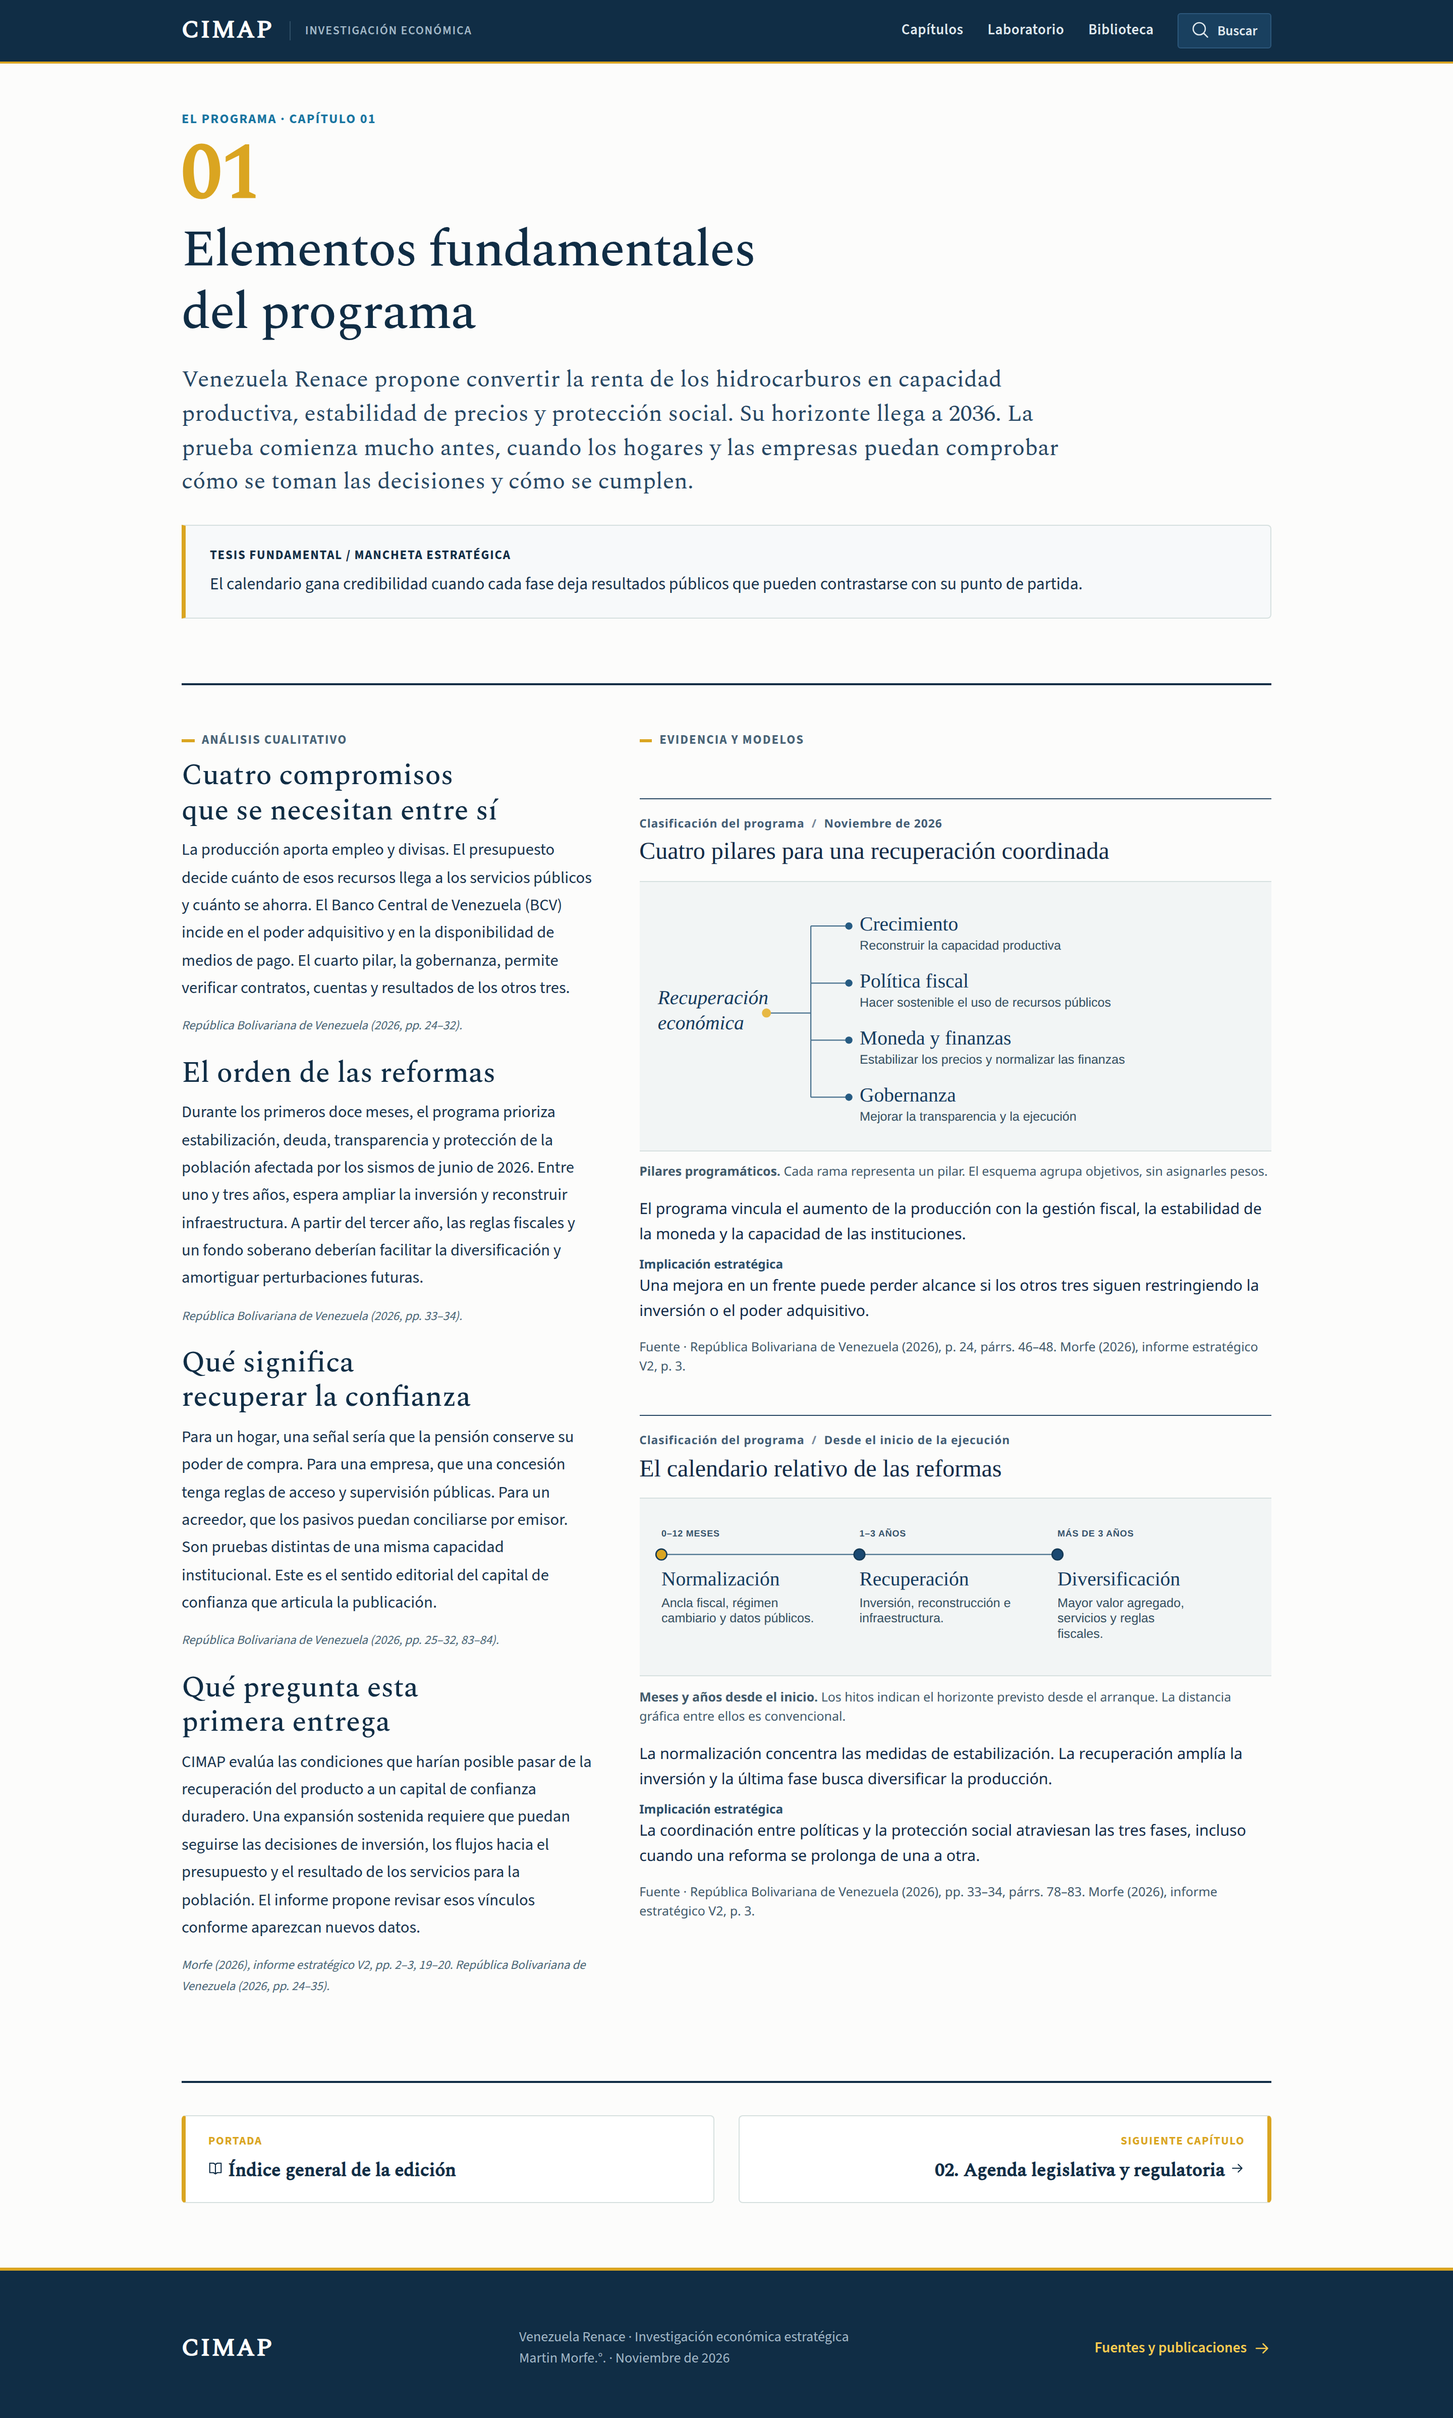
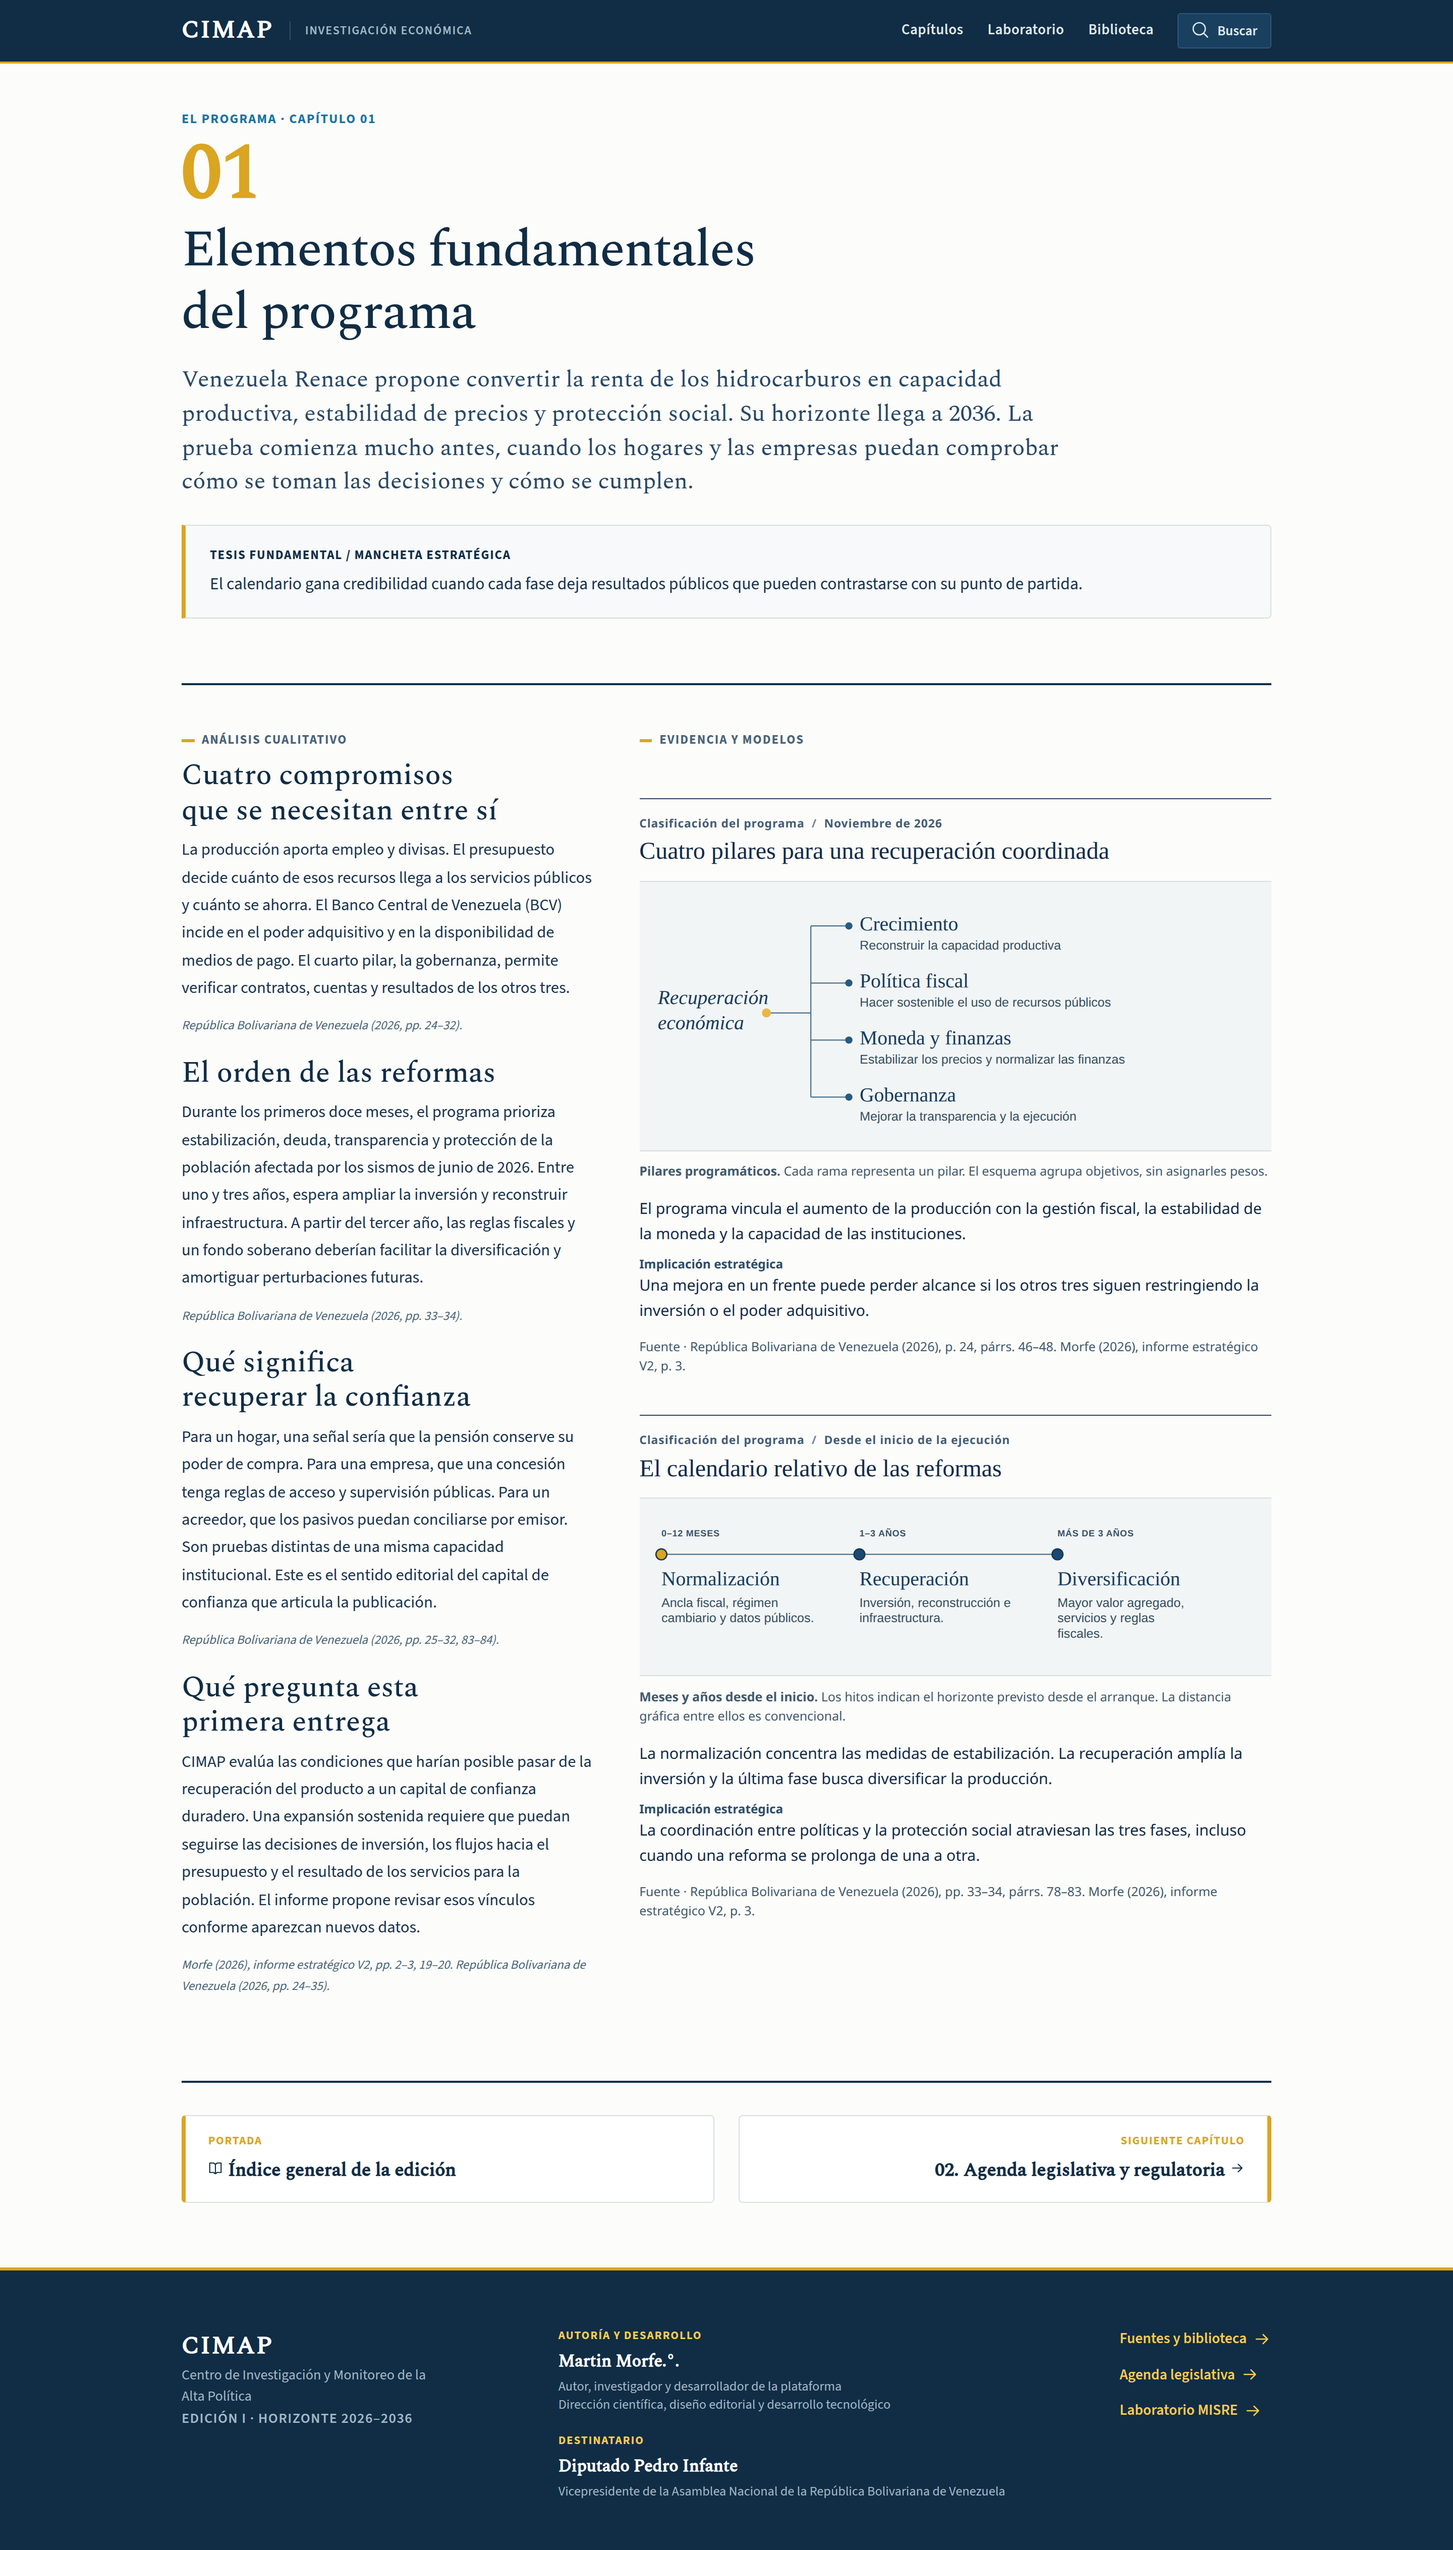
docs(compliance): ejecutar contrato documental y control documental final CIMAP

diff --git a/README.md b/README.md
@@ -11,8 +11,8 @@
 [![Apache ECharts](https://img.shields.io/badge/Apache_ECharts-6.0_SVG-AA344D?style=for-the-badge&logo=apacheecharts&logoColor=white)](https://echarts.apache.org/)
 [![Playwright QA](https://img.shields.io/badge/Playwright-100%25_PASS-2EAD33?style=for-the-badge&logo=playwright&logoColor=white)](https://playwright.dev/)
 [![Tests](https://img.shields.io/badge/Tests-14%2F14_Passing-success?style=for-the-badge&logo=checkmarx&logoColor=white)](https://github.com/mmorfe-engineer/cimap-venezuela-renace)
-[![SSG](https://img.shields.io/badge/Output-100%25_Static_SSG-0b1d28?style=for-the-badge&logo=githubpages&logoColor=white)](https://mmorfe-engineer.github.io/cimap-venezuela-renace/)
-[![Data Integrity](https://img.shields.io/badge/Data_Integrity-100%25_Traceable-d49a37?style=for-the-badge)](https://github.com/mmorfe-engineer/cimap-venezuela-renace)
+[![Series Documentadas](https://img.shields.io/badge/Series_Documentadas-40_series_%2F_496_obs-003366?style=for-the-badge)](https://github.com/mmorfe-engineer/cimap-venezuela-renace)
+[![Contraste Independiente](https://img.shields.io/badge/Contraste_Independiente-399_comprobadas_%2F_97_trazables-d49a37?style=for-the-badge)](https://github.com/mmorfe-engineer/cimap-venezuela-renace)
 
 ---
 
@@ -22,14 +22,16 @@
 **Martin Morfe.°.**  
 *Autor, investigador y desarrollador de la plataforma*  
 *Dirección científica, diseño editorial y desarrollo tecnológico*  
-**Centro de Investigaciones Macroeconómicas y Políticas Públicas (CIMAP)**  
+**Centro de Investigación y Monitoreo de la Alta Política (CIMAP)**  
 
 **DESTINATARIO INSTITUCIONAL**  
 **Diputado Pedro Infante**  
 *Vicepresidente de la Asamblea Nacional de la República Bolivariana de Venezuela*  
 
 **URL DE PRODUCCIÓN (GitHub Pages):**  
-🔗 **[https://mmorfe-engineer.github.io/cimap-venezuela-renace/](https://mmorfe-engineer.github.io/cimap-venezuela-renace/)**
+🔗 **[https://mmorfe-engineer.github.io/cimap-venezuela-renace/](https://mmorfe-engineer.github.io/cimap-venezuela-renace/)**  
+
+*Nota de corte: Referencias externas y contrastes metodológicos atribuidos a informe complementario (corte 25/11/2026).*
 
 </div>
 
@@ -58,7 +60,7 @@
 
 La plataforma procesa y analiza el programa nacional decenal de estabilización (Horizonte 2026–2036) bajo una arquitectura estructurada en torno a:
 1. **Ratio Editorial 60/40:** 60% de visualizaciones y herramientas interactivas de datos frente al 40% de narrativa analítica y fundamentación cualitativa.
-2. **Soberanía y Trazabilidad Absoluta:** 40 series temporales (496 observaciones) con trazabilidad 1:1 a los cuadros oficiales de *República Bolivariana de Venezuela (2026)* y descarga estática en CSV UTF-8 BOM.
+2. **Soberanía y Trazabilidad Documental:** 40 series temporales (496 observaciones oficiales documentadas: 399 comprobadas en contraste independiente y 97 con trazabilidad documental primaria directa pendiente de contraste independiente) y descarga estática en CSV UTF-8 BOM.
 3. **Rigor Jurídico:** Clasificación nítida de 29 instrumentos normativos entre leyes formalmente promulgadas en Gaceta Oficial, sanciones parlamentarias e hitos de planificación.
 4. **Laboratorio de Sensibilidad MISRE 2036:** Módulo determinista transparente que reproduce con exactitud las identidades contables de la *Memoria Técnica*.
 5. **Cero Dependencias Externas en Runtime:** Tipografía empaquetada en local, renderizado SVG nativo y cero llamadas a APIs o CDNs comerciales externas.
@@ -202,13 +204,15 @@ El **Modelo Integrado de Sostenibilidad y Resurgimiento Económico (MISRE 2036)*
 
 1. **Relación Estática de Pasivos a Saldo Fijo / PIB Nominal:**
    $$\text{Ratio}_t = \frac{\text{Deuda}_{2025} (\text{USD 237.544 MMM})}{\text{PIB Nominal}_t} \times 100$$
-   *Demostración:* En 2025 toca **242,14%**; en 2031 desciende a **118,24%**; y en 2036 alcanza **81,74%**.
+   *Demostración:* En 2025 toca **242,14%**; en 2031 desciende a **118,24%**; y en 2036 alcanza **81,74%**.  
+   *(Aclaración metodológica: Los USD 237.544 MMM representan un inventario bruto heterogéneo que agrega deuda financiera, litigios, arbitrajes y pasivos bilaterales, no una deuda neta consolidada; constituye un ejercicio de sensibilidad estática a saldo fijo, no una trayectoria proyectada de desendeudamiento).*
 2. **Escala de Sensibilidad de Facturación Petrolera Bruta:**
    $$\Delta \text{Facturación} = \text{Volumen (b/d)} \times 365 \times \Delta \text{Precio (USD/bbl)}$$
-   *Demostración:* 100.000 b/d vendidos a variación de 1 USD/barril generan exactamente **USD 36,5 millones/año**.
+   *Demostración:* 100.000 b/d vendidos a variación de 1 USD/barril generan exactamente **USD 36,5 millones/año**.  
+   *(Aclaración metodológica: La facturación petrolera bruta no equivale a ingreso fiscal petrolero neto; la captura tributaria pública descuenta costos de extracción, regalías, compensaciones y participación de socios).*
 3. **Margen Brent Previsto vs. Umbral de Equilibrio Fiscal Primario:**
    $$\text{Margen}_t = \text{Brent Supuesto}_t - \text{Brent Equilibrio Fiscal}_t$$
-   *Demostración:* Inicia en **-6,9 USD/bbl** (2026) con déficit acumulado de USD 19,2 MMM hasta 2030, y alcanza superávit de **+4,2 USD/bbl** (2036).
+   *Demostración:* Inicia en **-6,9 USD/bbl** (2026) con una brecha acumulada de flujo primario antes de financiamiento de USD 19,2 MMM hasta 2030, y alcanza un margen positivo frente al equilibrio fiscal primario de **+4,2 USD/bbl** (2036). Este diferencial sobre el precio de balance no constituye un superávit fiscal general al excluir servicio de intereses y amortización de pasivos.
 
 ---
 
@@ -310,6 +314,6 @@ El corpus bibliográfico cumple con la norma **APA 7.ª edición** e incluye:
 ## 12. Licencia y Atribución
 
 **Autor, Investigador y Desarrollador:** Martin Morfe.°.  
-**Institución:** Centro de Investigaciones Macroeconómicas y Políticas Públicas (CIMAP)  
+**Institución:** Centro de Investigación y Monitoreo de la Alta Política (CIMAP)  
 **Destinatario Institucional:** Diputado Pedro Infante, Vicepresidente de la Asamblea Nacional de la República Bolivariana de Venezuela  
 **Derechos:** © 2026 Martin Morfe.°. Todos los derechos reservados. Distribución autorizada con fines de análisis estratégico, debate legislativo y formulación de políticas públicas de Estado.
